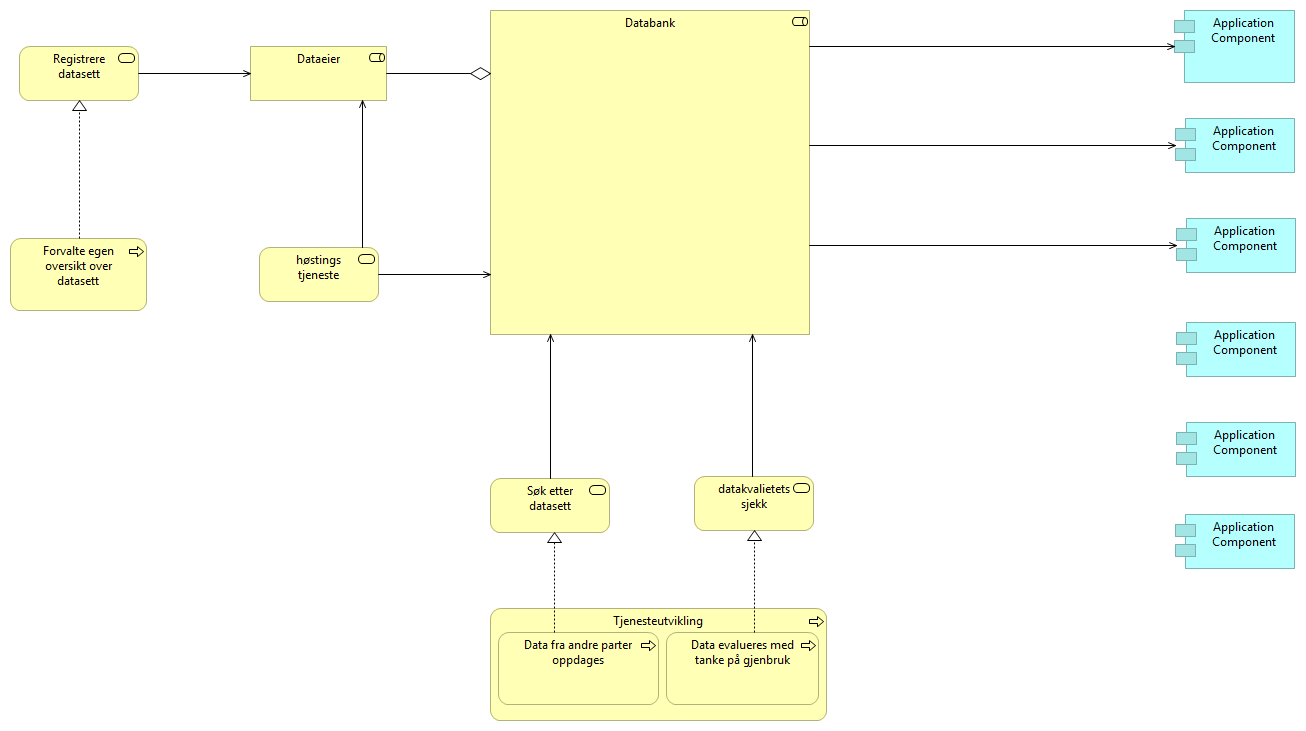
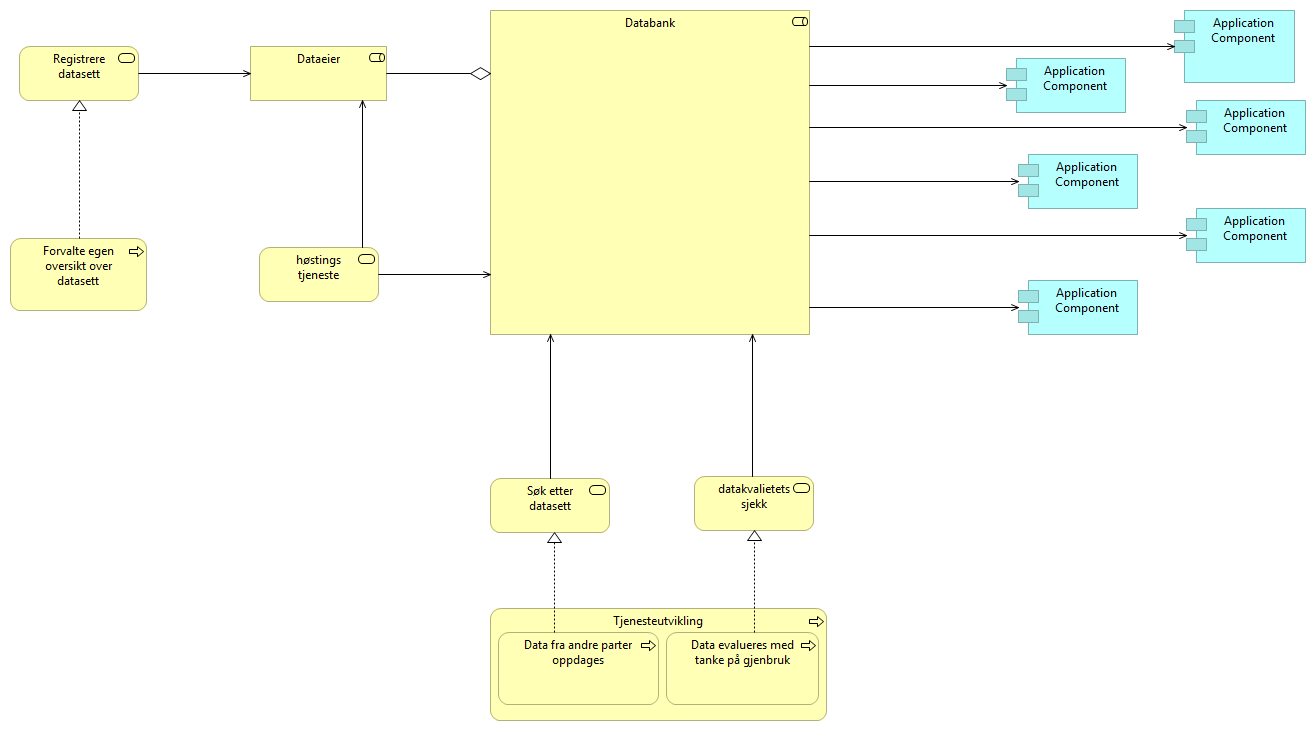
update of report

diff --git a/docs/54e87e47-f01c-49fe-af55-2068f4564bd2/elements/210a1c9d-a708-4841-a8ff-25b163953593.html b/docs/54e87e47-f01c-49fe-af55-2068f4564bd2/elements/210a1c9d-a708-4841-a8ff-25b163953593.html
@@ -1,0 +1,69 @@
+<!DOCTYPE HTML PUBLIC "-//W3C//DTD HTML 4.01 Transitional//EN" "http://www.w3.org/TR/html4/loose.dtd">
+<html class="frame" lang="en">
+<head>
+	<meta http-equiv="Content-Type" content="text/html;charset=utf-8">
+	<title></title>
+
+	<!-- JQUERY (use 1.x branch to be compatible with IE 6/7/8) -->
+	<script type="text/javascript" src="../../lib/jquery/js/jquery-1.11.2.min.js"></script>
+	<!-- BOOTSTRAP -->
+	<link type="text/css" rel="stylesheet" href="../../lib/bootstrap/css/bootstrap-3.3.2.min.css">
+	<link type="text/css" rel="stylesheet" href="../../lib/bootstrap/css/bootstrap-theme-3.3.2.min.css">
+	<script type="text/javascript" src="../../lib/bootstrap/js/bootstrap-3.3.2.min.js"></script>
+	<!-- REPORT SPECIFIC -->
+	<link type="text/css" rel="stylesheet" href="../../css/model.css">
+	<link type="text/css" rel="stylesheet" href="../../css/i18n.css">
+	<script type="text/javascript" src="../../js/frame.js"></script>
+	<script type="text/javascript" src="../../js/imageMapResizer.min.js"></script>
+</head>
+
+<body>
+	<div class="panel panel-default root-panel">
+		<div class="panel-heading root-panel-heading">
+			<b></b>
+			(<span class="i18n-elementtype-ServingRelationship"></span>)
+			<a class="glyphicon glyphicon-info-sign" id="hint-ServingRelationship" target="hint"></a>
+		</div>
+		<div class="panel-body root-panel-body">
+			<div role="tabpanel">
+				<!-- Nav tabs -->
+				<ul class="nav nav-tabs" role="tablist">
+					<li role="presentation" class="active"><a href="#documentation" aria-controls="documentation" role="tab" data-toggle="tab" class="i18n-documentation"></a></li>
+					<li role="presentation"><a href="#properties" aria-controls="properties" role="tab" data-toggle="tab" class="i18n-properties"></a></li>
+				</ul>
+
+				<!-- Tab panes -->
+				<div class="tab-content">
+					<div role="tabpanel" class="tab-pane active" id="documentation">
+							<br>
+							<b class="i18n-relation-source"></b>
+								<a href="../elements/02068cfd-7df0-4fe3-ac24-9fdb69b398a7.html" target="element">
+									Databank
+								</a> <br>
+							<b class="i18n-relation-target"></b>
+								<a href="../elements/3be29044-a783-481c-b1f1-7518e76e703c.html" target="element">
+									Application Component
+								</a> <br>
+							<br>
+						<textarea id="docsrc" style="display:none"></textarea>
+						<div id="doctgt" style="white-space:pre-wrap"></div>
+					</div>
+					<div role="tabpanel" class="tab-pane" id="properties">
+						<table class="table table-striped table-hover table-condensed">
+							<thead>
+								<tr>
+									<th class="i18n-key"></th>
+									<th class="i18n-value"></th>
+								</tr>
+							</thead>
+							<tbody>
+							</tbody>
+						</table>
+					</div>
+			  </div>
+			</div>
+		</div>
+	</div>
+	<script type="text/javascript">imageMapResize();</script>
+</body>
+</html>

diff --git a/docs/54e87e47-f01c-49fe-af55-2068f4564bd2/elements/c5e08ed2-09fe-4852-942c-0c68440b0e93.html b/docs/54e87e47-f01c-49fe-af55-2068f4564bd2/elements/c5e08ed2-09fe-4852-942c-0c68440b0e93.html
@@ -1,0 +1,69 @@
+<!DOCTYPE HTML PUBLIC "-//W3C//DTD HTML 4.01 Transitional//EN" "http://www.w3.org/TR/html4/loose.dtd">
+<html class="frame" lang="en">
+<head>
+	<meta http-equiv="Content-Type" content="text/html;charset=utf-8">
+	<title></title>
+
+	<!-- JQUERY (use 1.x branch to be compatible with IE 6/7/8) -->
+	<script type="text/javascript" src="../../lib/jquery/js/jquery-1.11.2.min.js"></script>
+	<!-- BOOTSTRAP -->
+	<link type="text/css" rel="stylesheet" href="../../lib/bootstrap/css/bootstrap-3.3.2.min.css">
+	<link type="text/css" rel="stylesheet" href="../../lib/bootstrap/css/bootstrap-theme-3.3.2.min.css">
+	<script type="text/javascript" src="../../lib/bootstrap/js/bootstrap-3.3.2.min.js"></script>
+	<!-- REPORT SPECIFIC -->
+	<link type="text/css" rel="stylesheet" href="../../css/model.css">
+	<link type="text/css" rel="stylesheet" href="../../css/i18n.css">
+	<script type="text/javascript" src="../../js/frame.js"></script>
+	<script type="text/javascript" src="../../js/imageMapResizer.min.js"></script>
+</head>
+
+<body>
+	<div class="panel panel-default root-panel">
+		<div class="panel-heading root-panel-heading">
+			<b></b>
+			(<span class="i18n-elementtype-ServingRelationship"></span>)
+			<a class="glyphicon glyphicon-info-sign" id="hint-ServingRelationship" target="hint"></a>
+		</div>
+		<div class="panel-body root-panel-body">
+			<div role="tabpanel">
+				<!-- Nav tabs -->
+				<ul class="nav nav-tabs" role="tablist">
+					<li role="presentation" class="active"><a href="#documentation" aria-controls="documentation" role="tab" data-toggle="tab" class="i18n-documentation"></a></li>
+					<li role="presentation"><a href="#properties" aria-controls="properties" role="tab" data-toggle="tab" class="i18n-properties"></a></li>
+				</ul>
+
+				<!-- Tab panes -->
+				<div class="tab-content">
+					<div role="tabpanel" class="tab-pane active" id="documentation">
+							<br>
+							<b class="i18n-relation-source"></b>
+								<a href="../elements/02068cfd-7df0-4fe3-ac24-9fdb69b398a7.html" target="element">
+									Databank
+								</a> <br>
+							<b class="i18n-relation-target"></b>
+								<a href="../elements/cc7256b4-e20d-4255-89f9-99d270da0cb3.html" target="element">
+									Application Component
+								</a> <br>
+							<br>
+						<textarea id="docsrc" style="display:none"></textarea>
+						<div id="doctgt" style="white-space:pre-wrap"></div>
+					</div>
+					<div role="tabpanel" class="tab-pane" id="properties">
+						<table class="table table-striped table-hover table-condensed">
+							<thead>
+								<tr>
+									<th class="i18n-key"></th>
+									<th class="i18n-value"></th>
+								</tr>
+							</thead>
+							<tbody>
+							</tbody>
+						</table>
+					</div>
+			  </div>
+			</div>
+		</div>
+	</div>
+	<script type="text/javascript">imageMapResize();</script>
+</body>
+</html>

diff --git a/docs/54e87e47-f01c-49fe-af55-2068f4564bd2/elements/fbaf0cf0-8a0f-41b9-8533-a90f1f448737.html b/docs/54e87e47-f01c-49fe-af55-2068f4564bd2/elements/fbaf0cf0-8a0f-41b9-8533-a90f1f448737.html
@@ -1,0 +1,69 @@
+<!DOCTYPE HTML PUBLIC "-//W3C//DTD HTML 4.01 Transitional//EN" "http://www.w3.org/TR/html4/loose.dtd">
+<html class="frame" lang="en">
+<head>
+	<meta http-equiv="Content-Type" content="text/html;charset=utf-8">
+	<title></title>
+
+	<!-- JQUERY (use 1.x branch to be compatible with IE 6/7/8) -->
+	<script type="text/javascript" src="../../lib/jquery/js/jquery-1.11.2.min.js"></script>
+	<!-- BOOTSTRAP -->
+	<link type="text/css" rel="stylesheet" href="../../lib/bootstrap/css/bootstrap-3.3.2.min.css">
+	<link type="text/css" rel="stylesheet" href="../../lib/bootstrap/css/bootstrap-theme-3.3.2.min.css">
+	<script type="text/javascript" src="../../lib/bootstrap/js/bootstrap-3.3.2.min.js"></script>
+	<!-- REPORT SPECIFIC -->
+	<link type="text/css" rel="stylesheet" href="../../css/model.css">
+	<link type="text/css" rel="stylesheet" href="../../css/i18n.css">
+	<script type="text/javascript" src="../../js/frame.js"></script>
+	<script type="text/javascript" src="../../js/imageMapResizer.min.js"></script>
+</head>
+
+<body>
+	<div class="panel panel-default root-panel">
+		<div class="panel-heading root-panel-heading">
+			<b></b>
+			(<span class="i18n-elementtype-ServingRelationship"></span>)
+			<a class="glyphicon glyphicon-info-sign" id="hint-ServingRelationship" target="hint"></a>
+		</div>
+		<div class="panel-body root-panel-body">
+			<div role="tabpanel">
+				<!-- Nav tabs -->
+				<ul class="nav nav-tabs" role="tablist">
+					<li role="presentation" class="active"><a href="#documentation" aria-controls="documentation" role="tab" data-toggle="tab" class="i18n-documentation"></a></li>
+					<li role="presentation"><a href="#properties" aria-controls="properties" role="tab" data-toggle="tab" class="i18n-properties"></a></li>
+				</ul>
+
+				<!-- Tab panes -->
+				<div class="tab-content">
+					<div role="tabpanel" class="tab-pane active" id="documentation">
+							<br>
+							<b class="i18n-relation-source"></b>
+								<a href="../elements/02068cfd-7df0-4fe3-ac24-9fdb69b398a7.html" target="element">
+									Databank
+								</a> <br>
+							<b class="i18n-relation-target"></b>
+								<a href="../elements/6f145dd8-0b41-4065-a142-7998ad109b73.html" target="element">
+									Application Component
+								</a> <br>
+							<br>
+						<textarea id="docsrc" style="display:none"></textarea>
+						<div id="doctgt" style="white-space:pre-wrap"></div>
+					</div>
+					<div role="tabpanel" class="tab-pane" id="properties">
+						<table class="table table-striped table-hover table-condensed">
+							<thead>
+								<tr>
+									<th class="i18n-key"></th>
+									<th class="i18n-value"></th>
+								</tr>
+							</thead>
+							<tbody>
+							</tbody>
+						</table>
+					</div>
+			  </div>
+			</div>
+		</div>
+	</div>
+	<script type="text/javascript">imageMapResize();</script>
+</body>
+</html>

diff --git a/docs/54e87e47-f01c-49fe-af55-2068f4564bd2/views/3e23fb97-254a-4b27-8b7a-959fef006d9f.html b/docs/54e87e47-f01c-49fe-af55-2068f4564bd2/views/3e23fb97-254a-4b27-8b7a-959fef006d9f.html
@@ -39,11 +39,11 @@
 						<area shape="rect" coords="10,238,147,311" href="../elements/12a97502-24c4-4d91-a602-b0923073cd21.html"  target="element">
 						<area shape="rect" coords="490,10,810,335" href="../elements/02068cfd-7df0-4fe3-ac24-9fdb69b398a7.html"  target="element">
 						<area shape="rect" coords="1174,10,1295,83" href="../elements/a955fc10-19f1-430d-8a09-04a13e6ca4b1.html"  target="element">
-						<area shape="rect" coords="1175,118,1295,173" href="../elements/3efdf2a9-6ed4-425f-b04c-3765b5841e5f.html"  target="element">
-						<area shape="rect" coords="1176,218,1296,273" href="../elements/8f3ab196-6da3-444a-9858-689cfdac6b0c.html"  target="element">
-						<area shape="rect" coords="1176,322,1296,377" href="../elements/6f145dd8-0b41-4065-a142-7998ad109b73.html"  target="element">
-						<area shape="rect" coords="1176,422,1296,477" href="../elements/cc7256b4-e20d-4255-89f9-99d270da0cb3.html"  target="element">
-						<area shape="rect" coords="1175,514,1295,569" href="../elements/3be29044-a783-481c-b1f1-7518e76e703c.html"  target="element">
+						<area shape="rect" coords="1006,58,1126,113" href="../elements/3efdf2a9-6ed4-425f-b04c-3765b5841e5f.html"  target="element">
+						<area shape="rect" coords="1186,100,1306,155" href="../elements/8f3ab196-6da3-444a-9858-689cfdac6b0c.html"  target="element">
+						<area shape="rect" coords="1018,154,1138,209" href="../elements/6f145dd8-0b41-4065-a142-7998ad109b73.html"  target="element">
+						<area shape="rect" coords="1186,208,1306,263" href="../elements/cc7256b4-e20d-4255-89f9-99d270da0cb3.html"  target="element">
+						<area shape="rect" coords="1018,280,1138,335" href="../elements/3be29044-a783-481c-b1f1-7518e76e703c.html"  target="element">
 
 			</map>
 			<div role="tabpanel">

diff --git a/docs/index.html b/docs/index.html
@@ -1024,6 +1024,18 @@
 															<span class="i18n-elementtype-ServingRelationship"></span>
 														(Databank - Application Component) 
 													</a></li>
+													<li class="tree-element"><a href="54e87e47-f01c-49fe-af55-2068f4564bd2/elements/fbaf0cf0-8a0f-41b9-8533-a90f1f448737.html" target="element">
+															<span class="i18n-elementtype-ServingRelationship"></span>
+														(Databank - Application Component) 
+													</a></li>
+													<li class="tree-element"><a href="54e87e47-f01c-49fe-af55-2068f4564bd2/elements/c5e08ed2-09fe-4852-942c-0c68440b0e93.html" target="element">
+															<span class="i18n-elementtype-ServingRelationship"></span>
+														(Databank - Application Component) 
+													</a></li>
+													<li class="tree-element"><a href="54e87e47-f01c-49fe-af55-2068f4564bd2/elements/210a1c9d-a708-4841-a8ff-25b163953593.html" target="element">
+															<span class="i18n-elementtype-ServingRelationship"></span>
+														(Databank - Application Component) 
+													</a></li>
 
 									</ul>
 								</li>
